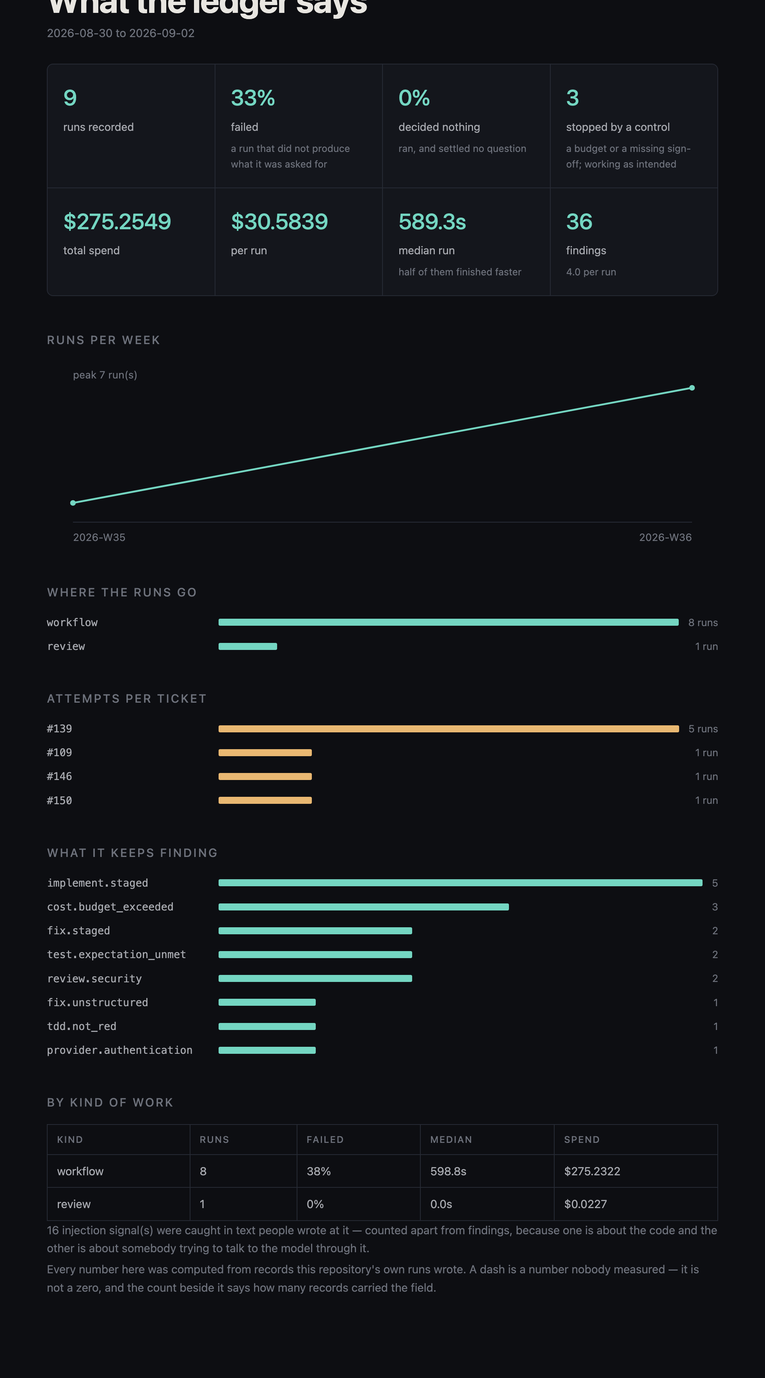
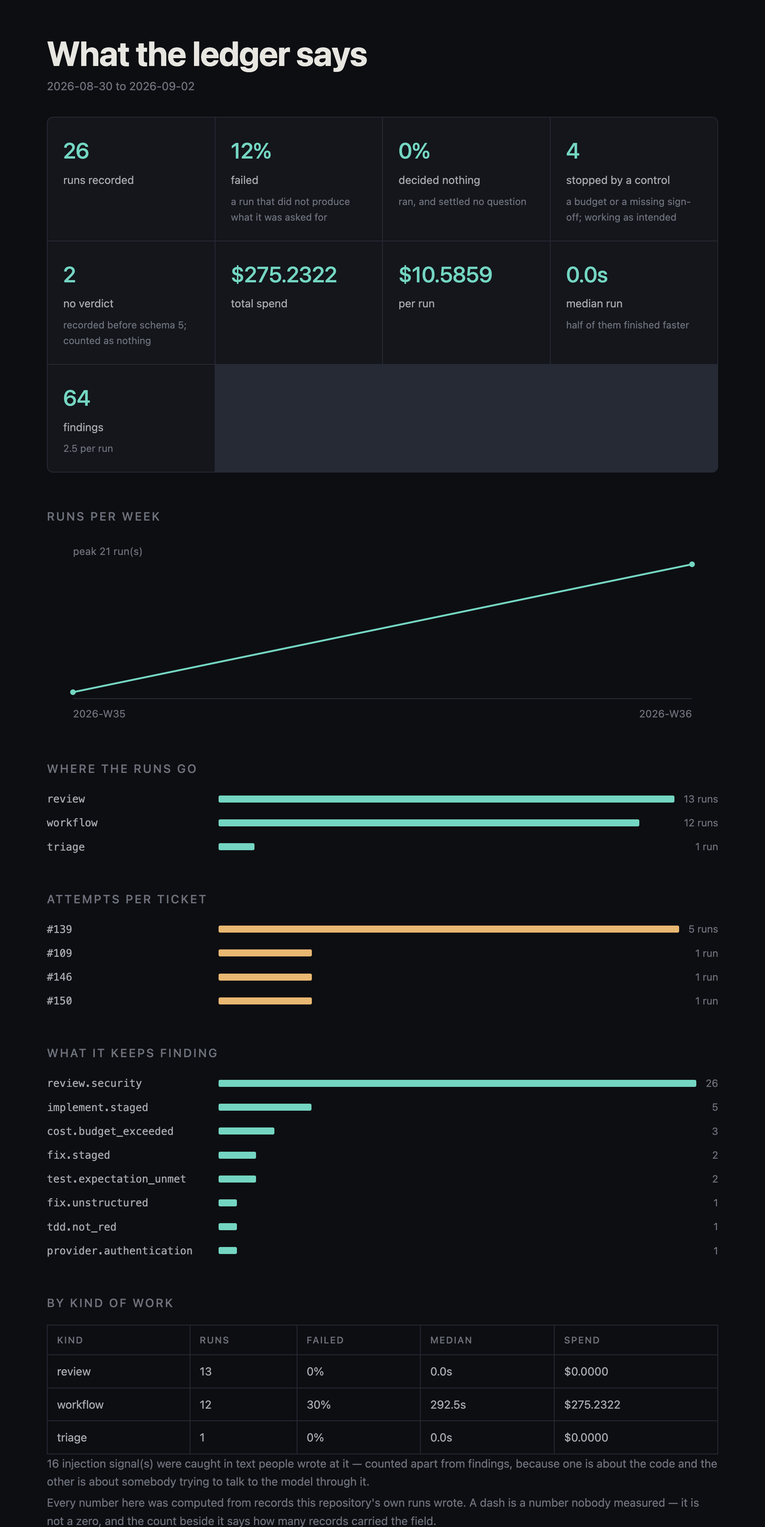
Bring the site up to 0.2.2, and to the ledger as it stands
Four releases of claims had drifted. The limits register still said build
and run were unbound and named issue 162, and still carried the two bugs the
first outside users hit as open; all three shipped. The report section was
read from nine published records and the branch now holds twenty-six. The
doctor block described a tamper finding that has been replaced by a real one.

What changed, each backed by a capture taken today against the published
0.2.2 and this repository:

The report section is re-read from the twenty-six published records. The
numbers moved (12% of 24 failed, not 33% of 9; $10.5859 per run, not
$30.5839) and two lines are new, both of them 0.2.2's own: a `no verdict`
row for records written before schema 5, and a failure rate whose
denominator excludes them. The screenshot is re-captured at the same 2x
convention. The block now opens on the TAMPERED line and closes on NOT
APPEND-ONLY, because the reconciliation rewrote a published record, and the
caption says so instead of boasting the opposite. That is the ledger doing
its job in public, which is worth more than the old sentence.

The limits register loses two items that shipped and gains three that are
real: `run selfcheck` drops `--approve` so a scaffolded repository cannot
reach a green selfcheck (issue 189), the module those flags write does not
pass ruff (issue 190), the implement scaffold rebinds Test to pytest, and a
red doctor cannot fail the pipeline the scaffold writes. The environment
[…]

diff --git a/index.html b/index.html
@@ -225,8 +225,8 @@ cost      <span class="g">$0.0000  (replayed; nothing was billed)</span></pre>
   <desc id="loop-d">Four boxes in a row, joined left to right and closed by a return arrow across
     the top, forming a loop: change, build, run, test. Under each box is the command that already
     does it in a repository: you or a model for change, and make build, make run and pytest for
-    the rest. Under that is what in-lockstep did with each: it bound a strategy to change, it found
-    and bound the test runner, and build and run are left for you to wire.</desc>
+    the rest. Under that is the verb each step serves: Implement for the change, then Build, Run and
+    Test, which detection binds to the commands already in the repository.</desc>
 
   <defs>
     <marker id="lt" viewBox="0 0 9 9" refX="7.2" refY="4.5" markerWidth="6" markerHeight="6" orient="auto">
@@ -271,7 +271,7 @@ cost      <span class="g">$0.0000  (replayed; nothing was billed)</span></pre>
       <figcaption class="loop-note"><strong>It does not bring its own tooling.</strong>
         <code>in-lockstep init</code> reads the repository and binds these verbs to what is already
         there: pytest and ruff here, <code>npm test</code> and eslint in a Node repository. It reads
-        your Makefile as well, and lists every target it finds.</figcaption>
+        your Makefile as well, and binds build and run to the targets that are in it.</figcaption>
     </figure>
 
     <div class="two-up">
@@ -279,6 +279,7 @@ cost      <span class="g">$0.0000  (replayed; nothing was billed)</span></pre>
         <div class="term-bar"><b>.lockstep/lockstep.py</b><span>the whole configuration</span></div>
 <pre><span class="k">from</span> <span class="n">in_lockstep</span> <span class="k">import</span> <span class="n">Lockstep</span>
 <span class="k">from</span> <span class="n">in_lockstep.adapters</span> <span class="k">import</span> (
+    <span class="n">CommandProvision</span>, <span class="n">Provision</span>,
     <span class="n">PytestTest</span>, <span class="n">RuffValidate</span>, <span class="n">Test</span>, <span class="n">Validate</span>,
 )
 <span class="k">from</span> <span class="n">in_lockstep.adapters.ai</span> <span class="k">import</span> <span class="n">TDD</span>, <span class="n">Implement</span>
@@ -292,6 +293,7 @@ cost      <span class="g">$0.0000  (replayed; nothing was billed)</span></pre>
 <span class="c"># deterministic work stays deterministic</span>
 <span class="n">lockstep</span>.bind(<span class="n">Test</span>, <span class="n">PytestTest</span>(args=[<span class="s">"-q"</span>]))
 <span class="n">lockstep</span>.bind(<span class="n">Validate</span>, <span class="n">RuffValidate</span>())
+<span class="n">lockstep</span>.bind(<span class="n">Provision</span>, <span class="n">CommandProvision</span>([[<span class="s">"uv"</span>, <span class="s">"sync"</span>, <span class="s">"--locked"</span>]]))
 
 <span class="c"># the scaffold's one opt-out: fine for read-only review;</span>
 <span class="c"># re-decide it before any verb of yours writes</span>
@@ -312,16 +314,18 @@ cost      <span class="g">$0.0000  (replayed; nothing was billed)</span></pre>
       <div class="term">
         <div class="term-bar"><b>$ in-lockstep init</b><span>on a Node repository</span></div>
 <pre>wrote .lockstep/lockstep.py
-  detected stack: node; tests: npm test; lint: npx eslint .
+  detected stack: node; tests: npm test; lint: npx eslint .; provision: npm ci
 wrote .github/workflows/lockstep.yml
 
 One job, because reviewing is read-only. Add the privileged
 `apply` job the day a verb of yours produces a change to
 write; the file says where.</pre>
         <p class="term-cap"><strong>It found <code>npm test</code> and eslint and bound them.</strong>
-          The two lines it wrote: <code>lockstep.bind(Test, CommandTest(['npm', 'test']))</code>
-          and <code>lockstep.bind(Validate, CommandValidate(['npx', 'eslint', '.']))</code>. The file
-          on the left is what it writes for a Python repository; the shape is the same.</p>
+          Three lines it wrote: <code>lockstep.bind(Test, CommandTest(['npm', 'test']))</code>,
+          <code>lockstep.bind(Validate, CommandValidate(['npx', 'eslint', '.']))</code> and
+          <code>lockstep.bind(Provision, CommandProvision([['npm', 'ci']]))</code>. The file on the
+          left is the same scaffold for a Python repository, plus the strategy and the model
+          routing a person adds afterwards.</p>
       </div>
     </div>
   </div>
@@ -499,16 +503,16 @@ skill:review/review-revision</pre>
 
     <div class="jobs-after">
       <div class="term">
-        <div class="term-bar"><b>$ in-lockstep run selfcheck</b><span>exit 1</span></div>
+        <div class="term-bar"><b>$ in-lockstep run selfcheck</b><span>exit 3</span></div>
 <pre>config    local working tree
 validate  <span class="r">failed</span>
           .lockstep/lockstep.py:645 validate.f821:
           Undefined name `issue`
 test      <span class="y">blocked</span>  (approval.required)
-          approval.required: ActionCall(test) grants
-          executes_code and no approval was granted.
-          Locally, `--approve` says you are the human
-          watching this run.
+          approval.required: ActionCall(test, step=None)
+          grants executes_code and no approval was
+          granted. Locally, `--approve` says you are
+          the human watching this run.
 
 spend     $0.0000, 0.06s
 ledger    lockstep-history:records/selfcheck-...json</pre>
@@ -518,9 +522,10 @@ ledger    lockstep-history:records/selfcheck-...json</pre>
           failure.</p>
       </div>
       <div class="jobs-note">
-        <p>The workflow file driving all of this is thirteen shell statements long, every one of
-          them a bare call to the tool. A test rejects the fourteenth, because lifecycle logic that
-          leaks into YAML is lifecycle logic nobody can run on their laptop.</p>
+        <p>The workflow file driving all of this is thirteen shell statements long: eight bare calls
+          to the tool, and five that install it or hand one job's answer to the next. A test rejects
+          the fourteenth, because lifecycle logic that leaks into YAML is lifecycle logic nobody can
+          run on their laptop.</p>
         <p>Your configuration is also loaded from the base branch, never the branch under review. A
           change cannot rewrite the rules that decide whether to accept it.</p>
       </div>
@@ -597,13 +602,13 @@ ledger    lockstep-history:records/selfcheck-...json</pre>
       <h2>It will not print a number it has not earned.</h2>
       <p class="lede">Every AI dashboard you have been shown averages over whatever happened to be
         present. These figures carry their denominator, and one nobody measured stays a dash. Every
-        number below is read back from the same nine published records as the table above.</p>
+        number below is read back from the same twenty-six published records as the table above.</p>
     </div>
 
     <figure class="shot">
-      <div class="term-bar"><b>$ in-lockstep report --html report.html</b><span>the published ledger: 9 records, $275.25 billed</span></div>
-      <img src="img/report.png" width="980" height="1764" loading="lazy" decoding="async"
-           alt="The report page in-lockstep writes, titled What the ledger says, for nine published runs: 33 percent failed, 3 stopped by a control, $275.25 total, $30.58 per run, a median run of 589 seconds, 36 findings. A runs-per-week line, a where-the-runs-go bar, an attempts-per-ticket bar with ticket 139 at five runs, a what-it-keeps-finding bar, a by-kind-of-work table, a note that 16 injection signals were caught in text people wrote at it, and a footer: a dash is a number nobody measured.">
+      <div class="term-bar"><b>$ in-lockstep report --html report.html</b><span>the published ledger: 26 records, $275.23 billed</span></div>
+      <img src="img/report.png" width="980" height="1955" loading="lazy" decoding="async"
+           alt="The report page in-lockstep writes, titled What the ledger says, for twenty-six published runs: 12 percent failed, 4 stopped by a control, 2 with no verdict, $275.2322 total, $10.5859 per run, 64 findings. A runs-per-week line, a where-the-runs-go bar, an attempts-per-ticket bar with ticket 139 at five runs, a what-it-keeps-finding bar, a by-kind-of-work table, a note that 16 injection signals were caught in text people wrote at it, and a footer: a dash is a number nobody measured.">
       <figcaption class="term-cap">One self-contained file, inline style and inline SVG, nothing to
         fetch. The same numbers the terminal prints, with the same rule under them: a chart it
         cannot draw yet says so in a box, and a run a control stopped is listed as working as
@@ -613,32 +618,42 @@ ledger    lockstep-history:records/selfcheck-...json</pre>
     <div class="two-up">
       <div class="term">
         <div class="term-bar"><b>$ in-lockstep report</b><span>excerpt, the published ledger</span></div>
-<pre>records   9  2026-08-30 → 2026-09-02
+<pre><span class="r">TAMPERED  records/review-security.json was modified
+          after being appended (commit adca58e73a2b)</span>
+records   26  2026-08-30 → 2026-09-02
 
 <span class="d">outcomes</span>
-  failed        <span class="r">33%  (3 of 9)</span>
-  <span class="y">blocked       3  (a control stopping a run is the control
+  failed        <span class="r">12%  (3 of 24)</span>
+  decided none  0%  (0 of 24)
+  <span class="y">blocked       4  (a control stopping a run is the control
                    working)</span>
+  no verdict    2  (written before schema 5 by a workflow
+                   that returned no Outcome; not counted
+                   as anything)
     cost.budget_exceeded         3
     tdd.not_red                  1
     provider.authentication      1
+    tdd.not_green                1
+    wayfinder.not_on_frontier    1
 
 <span class="d">spend</span>
-  total         $275.2549
-  per run       $30.5839
-  tokens        19,210,214
+  total         $275.2322
+  per run       $10.5859
+  tokens        19,279,877
 
 <span class="d">attempts per ticket</span>
   #139               5 run(s)   <span class="y">$210.1739</span>
 
 <span class="d">who and how</span>
-  unattended    89% of runs, with nobody watching
+  unattended    31% of runs, with nobody watching
 
 <b>A dash is a number nobody measured. It is not a zero.</b>
-history   <span class="g">append-only across the retained chain</span></pre>
-        <p class="term-cap">Three of nine failed, and it says so. Five attempts at one ticket cost
-          $210, and it says that too. The last line is the ledger checking itself: <strong>no record
-          on the published branch was rewritten after it was appended.</strong></p>
+history   <span class="r">NOT APPEND-ONLY: 1 record(s) rewritten (see above)</span></pre>
+        <p class="term-cap">Three of twenty-four failed, and it says so. Two records are older than the
+          schema that carries a verdict, so they are counted as neither passed nor failed. Five
+          attempts at one ticket cost $210, and it says that too. The first line and the last are the
+          ledger checking itself, and this time it found something: <strong>one published record was
+          rewritten after it was appended, and the report names it.</strong></p>
       </div>
 
       <div class="term">
@@ -675,11 +690,12 @@ pass rate    <span class="y">n/a — nothing decided</span>
           and they are the same list the tool checks itself against.</p>
 
         <ul class="limits">
-          <li><b>Build and run are not bound for you yet.</b> Detection finds your Makefile and
-            lists every target in it, and binds test and lint from what it finds. Wiring the build
-            and run verbs to those targets is
-            <a href="https://github.com/in-lockstep/lockstep/issues/162">issue 162</a>, and until it
-            lands you bind those two yourself.</li>
+          <li><b>The environment is built only from a layout it already knows.</b>
+            <code>provision</code> runs <code>uv sync --locked</code> from a uv.lock,
+            <code>npm ci</code> from a package-lock.json, a requirements.txt into a virtual
+            environment of its own, or the Makefile's own <code>deps</code> target. A pyproject
+            carrying a Poetry, PDM or Pipfile lock and nothing else binds nothing, and says
+            <code>not bound</code> rather than guessing at it.</li>
           <li><b>It does not yet improve its own prompts.</b> Every run is recorded and any run
             replays for nothing, but nothing reads the ledger back, measures a prompt change, and
             proposes it. That loop, ending in a pull request a person reads, is
@@ -691,11 +707,23 @@ pass rate    <span class="y">n/a — nothing decided</span>
           <li><b>One ledger per clone, not one per organization.</b> A shared store is declared
             and refused on purpose until it can be made trustworthy, so there is no rollup across
             repositories yet.</li>
-          <li><b>Two bugs the first outside users hit, both open.</b> A workflow whose test step
-            failed can be recorded as completed, so <code>report</code> under-counts failures
-            (<a href="https://github.com/in-lockstep/lockstep/issues/166">issue 166</a>), and an
-            installed copy runs the test runner from its own interpreter rather than your
-            repository's (<a href="https://github.com/in-lockstep/lockstep/issues/167">issue 167</a>).</li>
+          <li><b>The two bugs the first outside users hit are fixed. Two more are open.</b> A
+            record now takes its status from its steps, and an installed copy now runs your
+            repository's tools rather than its own interpreter. Since then:
+            <code>run selfcheck</code> drops <code>--approve</code>, so a repository scaffolded with
+            <code>init --implement</code> cannot reach a green selfcheck by any flag
+            (<a href="https://github.com/in-lockstep/lockstep/issues/189">issue 189</a>), and the
+            module those flags write does not pass ruff, with an unsorted import block, two unused
+            imports and two f-strings with nothing in them
+            (<a href="https://github.com/in-lockstep/lockstep/issues/190">issue 190</a>).</li>
+          <li><b>The implement scaffold rebinds your test verb to pytest.</b> Detection binds Test
+            to what it found, and the block <code>init --implement</code> appends then binds pytest
+            over it, whatever the repository runs. A repository that is not Python deletes that
+            line.</li>
+          <li><b>A red doctor does not fail the pipeline it writes.</b> Every workflow the scaffold
+            writes runs <code>doctor</code> as <code>continue-on-error</code>, so a repository whose
+            own controls are red still goes green. The work jobs run <code>provision</code> before
+            it without that flag, so an environment that cannot be built does fail, by name.</li>
           <li><b>No flaky-test handling.</b> The adapter is not built, and a test in the repository
             asserts that it has not shipped.</li>
           <li><b>GitLab is partial.</b> The protocols and host-aware setup ship. Nobody has run a
@@ -720,20 +748,22 @@ pass rate    <span class="y">n/a — nothing decided</span>
 <pre><span class="r">ERROR</span>   DOC101  no provider-side organisation spend
                 limit is attested
                 Set a hard monthly cap in the provider
-                console and record it. A per-run budget
-                cannot bound a runaway trigger.
+                console and record it as
+                IN_LOCKSTEP_ORG_SPEND_LIMIT=&lt;amount&gt;. A
+                per-run budget cannot bound a runaway
+                trigger.
 <span class="r">ERROR</span>   DOC167  lockstep-history is not append-only:
-                3 record(s) rewritten
-                records/triage-412.json was modified after
-                being appended (commit 8ad29707b1fc). Note
-                the check reads the retained chain only: a
-                force-push that replaced the chain discards
-                the contradiction.
+                1 record(s) rewritten
+                records/review-security.json was modified
+                after being appended (commit adca58e73a2b).
+                Note the check reads the retained chain
+                only: a force-push that replaced the chain
+                discards the contradiction.
 <span class="y">WARNING</span> DOC130  no egress enforcement is declared
 
 3 finding(s), <span class="r">2 error(s)</span></pre>
-          <p class="term-cap">Twenty-seven checks, run against its own repository, exiting non-zero.
-            It names the rewritten records with their commit hashes, and then tells you the limit of
+          <p class="term-cap">Twenty-nine checks, run against its own repository, exiting non-zero.
+            It names the rewritten record with its commit hash, and then tells you the limit of
             its own tamper check.</p>
         </div>
       </div>
@@ -764,6 +794,11 @@ pass rate    <span class="y">n/a — nothing decided</span>
           <div><dt>backport</dt><dd>plain cherry-pick, a model only on conflict</dd></div>
           <div><dt>rfe</dt><dd>draft a ticket from an idea, a person files it</dd></div>
         </dl>
+        <h3 class="lg-h lg-h-2">And the environment they run in</h3>
+        <p class="ships-p"><code>provision</code> builds the repository's own environment before
+          anything runs in it: <code>uv sync --locked</code> from a uv.lock, <code>npm ci</code>
+          from a package-lock.json, the Makefile's own <code>deps</code> target. Nothing to
+          provision reports <code>not bound</code>, never a success.</p>
         <p class="ships-link"><a href="https://github.com/in-lockstep/lockstep#what-ships-today">Read
           the full table, and the test that holds it</a></p>
       </div>

diff --git a/docs/getting-started.html b/docs/getting-started.html
@@ -72,7 +72,7 @@
 <pre data-lang="bash"><code>uv tool install 'in-lockstep[anthropic]'
 in-lockstep init</code></pre>
 <pre data-lang="text"><code>wrote .lockstep/lockstep.py
-  detected stack: python; tests: pytest; lint: ruff
+  detected stack: python; tests: pytest; lint: ruff; provision: uv sync --locked
 wrote .github/workflows/lockstep.yml
 
 One job, because reviewing is read-only. Add the privileged `apply` job the
@@ -91,9 +91,16 @@ lockstep-history          an orphan branch    (run records)</code></pre>
 in-lockstep history --push     # publish it; needs push access, never automatic</code></pre>
 <p>Local runs append to a local ref and stop. Reaching a remote needs credentials and is a side effect nobody asked for by typing a command in a terminal, so publishing is a separate act. In practice that act is CI, where the job that can push carries the record out as a bundle from the job that made it.</p>
 <h2 id="the-module-is-the-configuration">The module is the configuration</h2>
-<p><code>init</code> detected pytest and ruff above, so the scaffold it wrote already binds them:</p>
+<p><code>init</code> detected pytest, ruff and a <code>uv.lock</code> above, so the scaffold it wrote already binds them:</p>
 <pre data-lang="python"><code>from in_lockstep import Lockstep
-from in_lockstep.adapters import PytestTest, RuffValidate, Test, Validate
+from in_lockstep.adapters import (
+    CommandProvision,
+    Provision,
+    PytestTest,
+    RuffValidate,
+    Test,
+    Validate,
+)
 from in_lockstep.middleware import CostBudget, otel
 from in_lockstep.privileged.egress import EgressPolicy, UnsandboxedEgress
 
@@ -101,6 +108,8 @@ lockstep = Lockstep.detect()
 
 lockstep.bind(Test, PytestTest(args=["-q"]))
 lockstep.bind(Validate, RuffValidate())
+
+lockstep.bind(Provision, CommandProvision([['uv', 'sync', '--locked']]))
 
 # The scaffold's one opt-out, with a long comment in the real file saying exactly why it is
 # defensible for read-only review and must be re-decided before any verb that writes.
@@ -112,12 +121,16 @@ lockstep.middleware += [otel(), CostBudget(usd=2.00)]</code></pre>
 <pre data-lang="text"><code>config    local working tree
 repo      /home/dev/code/demo
 head      8b822684ed7a  branch main
-detected  stack: python; tests: pytest; lint: ruff; ci: github
+detected  stack: python; tests: pytest; lint: ruff; provision: uv sync --locked; ci: github
 
 bindings
   EgressPolicy           -&gt; UnsandboxedEgress(singleton, explicit)
+  Provision              -&gt; CommandProvision(singleton, explicit)
+                            uv  /home/dev/.local/bin/uv  (uv on PATH)
   Test                   -&gt; PytestTest      (singleton, explicit)
+                            python  /home/dev/code/demo/.venv/bin/python  (the repository's .venv)
   Validate               -&gt; RuffValidate    (singleton, explicit)
+                            ruff  /home/dev/code/demo/.venv/bin/ruff  (the repository's .venv)
 
 middleware  (privileged tier runs outside this chain and is not listed)
   OtelMiddleware
@@ -132,7 +145,9 @@ policy
 workflows
   selfcheck  (in_lockstep.cli)</code></pre>
 <p>Config-as-code has one genuine disadvantage over a manifest: you can read a YAML file, but you cannot read a container. <code>ls</code> is the answer to it.</p>
+<p>The indented line under <code>Provision</code>, <code>Test</code> and <code>Validate</code> says where each adapter found its tool: the repository's own <code>.venv</code>, then the interpreter running <code>in-lockstep</code> when it lives inside the repository (<code>uv run</code> in the checkout does), then PATH. An installed copy's own interpreter is never it: that one has no pytest and no ruff in it. A tool found nowhere shows as <code>not found</code> with every place looked, and <code>doctor</code> reports it as <code>DOC180</code> before any run. In the pipeline <code>init</code> writes, the work jobs build that environment first: <code>in-lockstep provision</code> runs whatever detection bound from a lockfile that exists (<code>uv sync --locked</code> for a <code>uv.lock</code>, <code>npm ci</code> for a <code>package-lock.json</code>) and says <code>not bound</code> when there is nothing to build, before <code>doctor</code> looks.</p>
 <p>The <code>standards</code> line is where an organisation's installed policy package would appear (<a href="cookbook.html#6-ship-your-organisations-standards-as-a-package">cookbook recipe 6</a>). The <code>config</code> line says which <code>lockstep.py</code> constrained this invocation, which matters the day it is a trusted ref rather than your working tree.</p>
+<p>The <code>detected</code> line reads the Makefile and package.json as well as pyproject. Where no pytest or ruff was found, a <code>test</code> or <code>lint</code> target serves <code>Test</code> or <code>Validate</code> with an exit code, and a <code>build</code> or <code>run</code> target (or a <code>build</code> or <code>start</code> script) serves <code>Build</code> and <code>Run</code> the same way, to the command that is already there. <code>init</code> writes those bindings into the module, and a repository with no module runs on them directly. A target that is not in the file is not guessed: <code>build: make build</code> appears only when the Makefile has one.</p>
 <h2 id="verbs-and-outcomes">Verbs and outcomes</h2>
 <p>A workflow asks for a verb; a binding decides what serves it.</p>
 <pre data-lang="python"><code>from in_lockstep import RunContext, Test, Validate, workflow

diff --git a/docs/extending.html b/docs/extending.html
@@ -84,6 +84,8 @@ class ToxTest:
 
 lockstep.bind(Test, ToxTest())</code></pre>
 <p><code>Test</code> is the request type. Workflows do <code>ctx.do(Test(...))</code>, and the request's type is what the binding serves, so the same <code>Test</code> names both what a workflow asks for and what your adapter receives.</p>
+<p>An adapter that runs a tool can also say where it found it, by implementing <code>locations(root)</code> and returning <code>Resolution</code> values (<code>in_lockstep.core.types</code>). That is what puts the indented line under a binding in <code>ls</code> and lets <code>doctor</code> refuse before a run when the tool is nowhere. The shipped adapters resolve the repository's own <code>.venv</code> first; yours can use <code>in_lockstep.adapters.tooling</code> to do the same.</p>
+<p><code>Provision</code> is the verb that builds the environment those resolutions look in first, and the scaffolded work jobs run <code>in-lockstep provision</code> before <code>doctor</code>. Detection binds it only from a lockfile that exists; a layout it does not read is one line in the module, <code>lockstep.bind(Provision, CommandProvision([["poetry", "install"]]))</code>. <code>CommandProvision</code> runs its steps in order and stops at the first that fails. It is the one shipped adapter whose sandbox allows the network, because reaching a registry is its job; it still drops every credential, because a lockfile's install hooks are repository-authored code. The shipped binding installs a lockfile's default groups and nothing more; a layout that keeps its test dependencies in an extra binds <code>CommandProvision([["uv", "sync", "--locked", "--all-extras"]])</code>.</p>
 <p><code>capabilities</code> is the part people skip and should not. Policy keys off it without knowing anything about your adapter: whether egress enforcement is mandatory, whether an approval gate applies, whether retry may re-invoke it. Declaring <code>EXECUTES_CODE</code> is how the framework knows to run you out of process, away from anything holding credentials.</p>
 <p><code>REACHES_NETWORK</code> exists separately from <code>WRITES_FILES</code>. "Read-only" describes mutation, not transmission. A fetch tool mutates nothing and is still an egress channel.</p>
 <h2 id="a-verb-of-your-own">A verb of your own</h2>

diff --git a/extensions.html b/extensions.html
@@ -219,8 +219,9 @@
             this module's own lines)</span>
   (none installed)</pre>
         <p class="term-cap">Every binding, every prompt composed, the merged policy floor, the
-          model routed to each verb. <strong>There is no line for the pack, and no section it would
-          appear in.</strong></p>
+          model routed to each verb. The full listing also prints, under each deterministic
+          binding, which tool it resolved and where. <strong>There is no line for the pack, and no
+          section it would appear in.</strong></p>
       </div>
       <div class="jobs-note">
         <p>A pack writes into the same band of the resolution order your own
